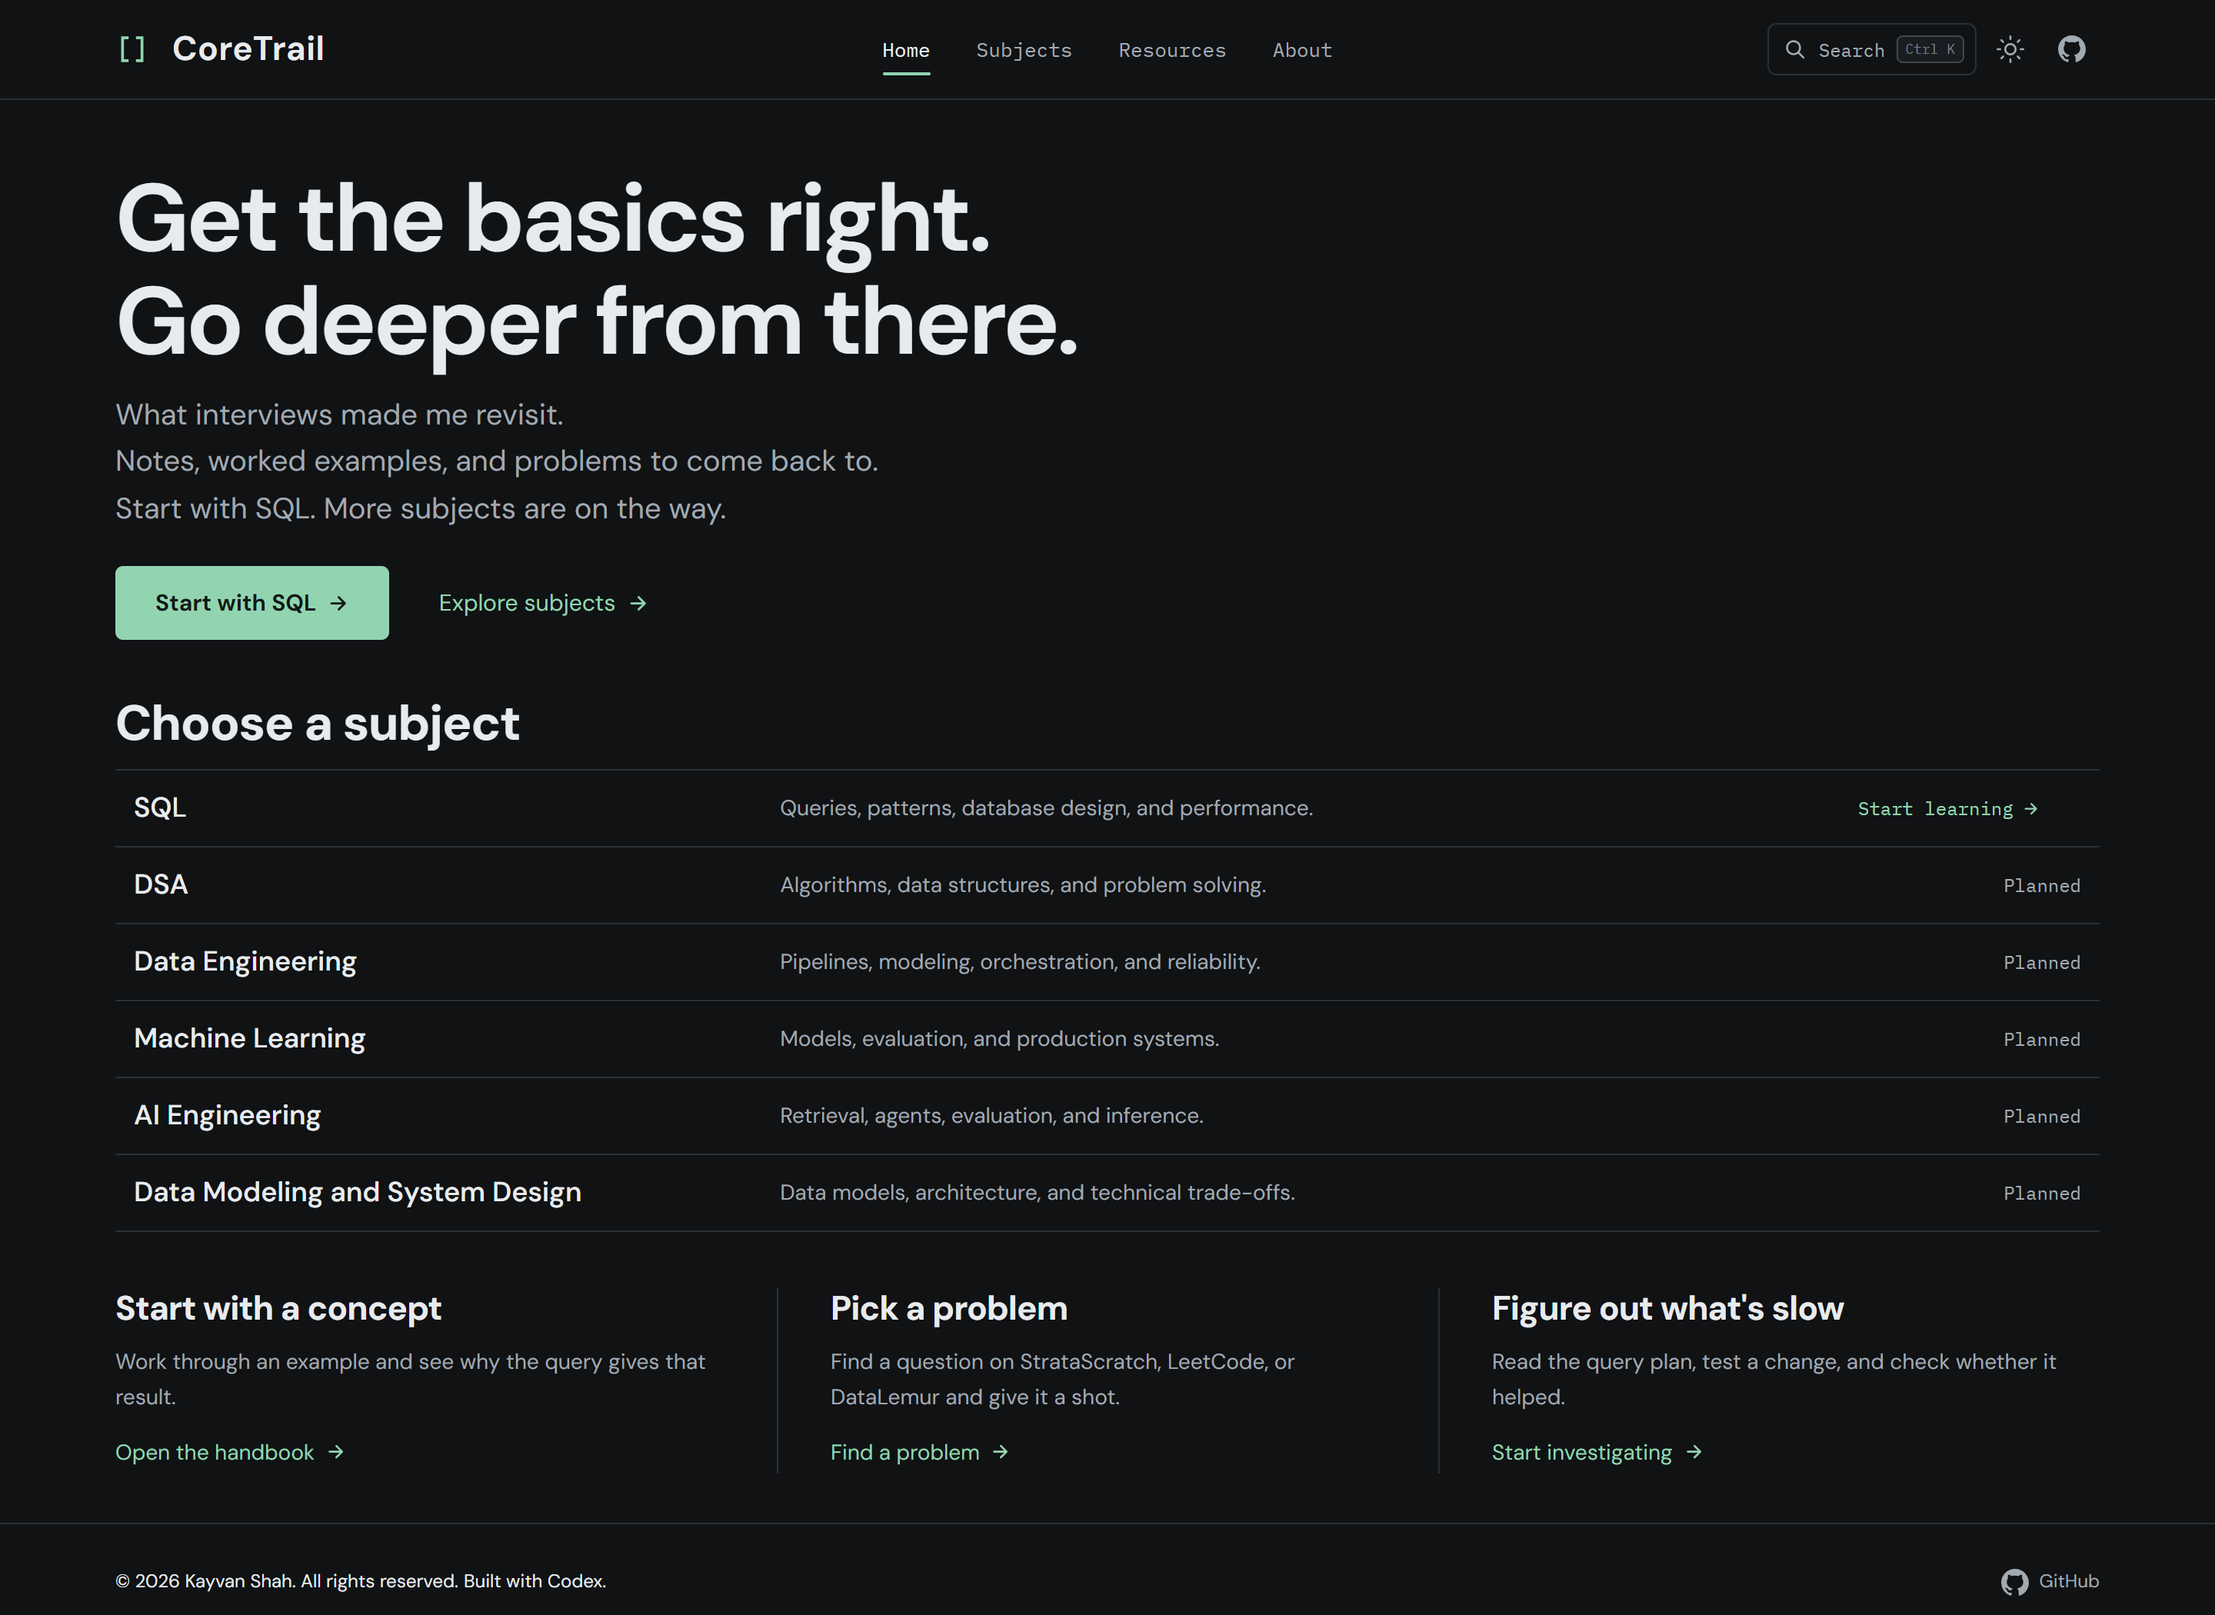
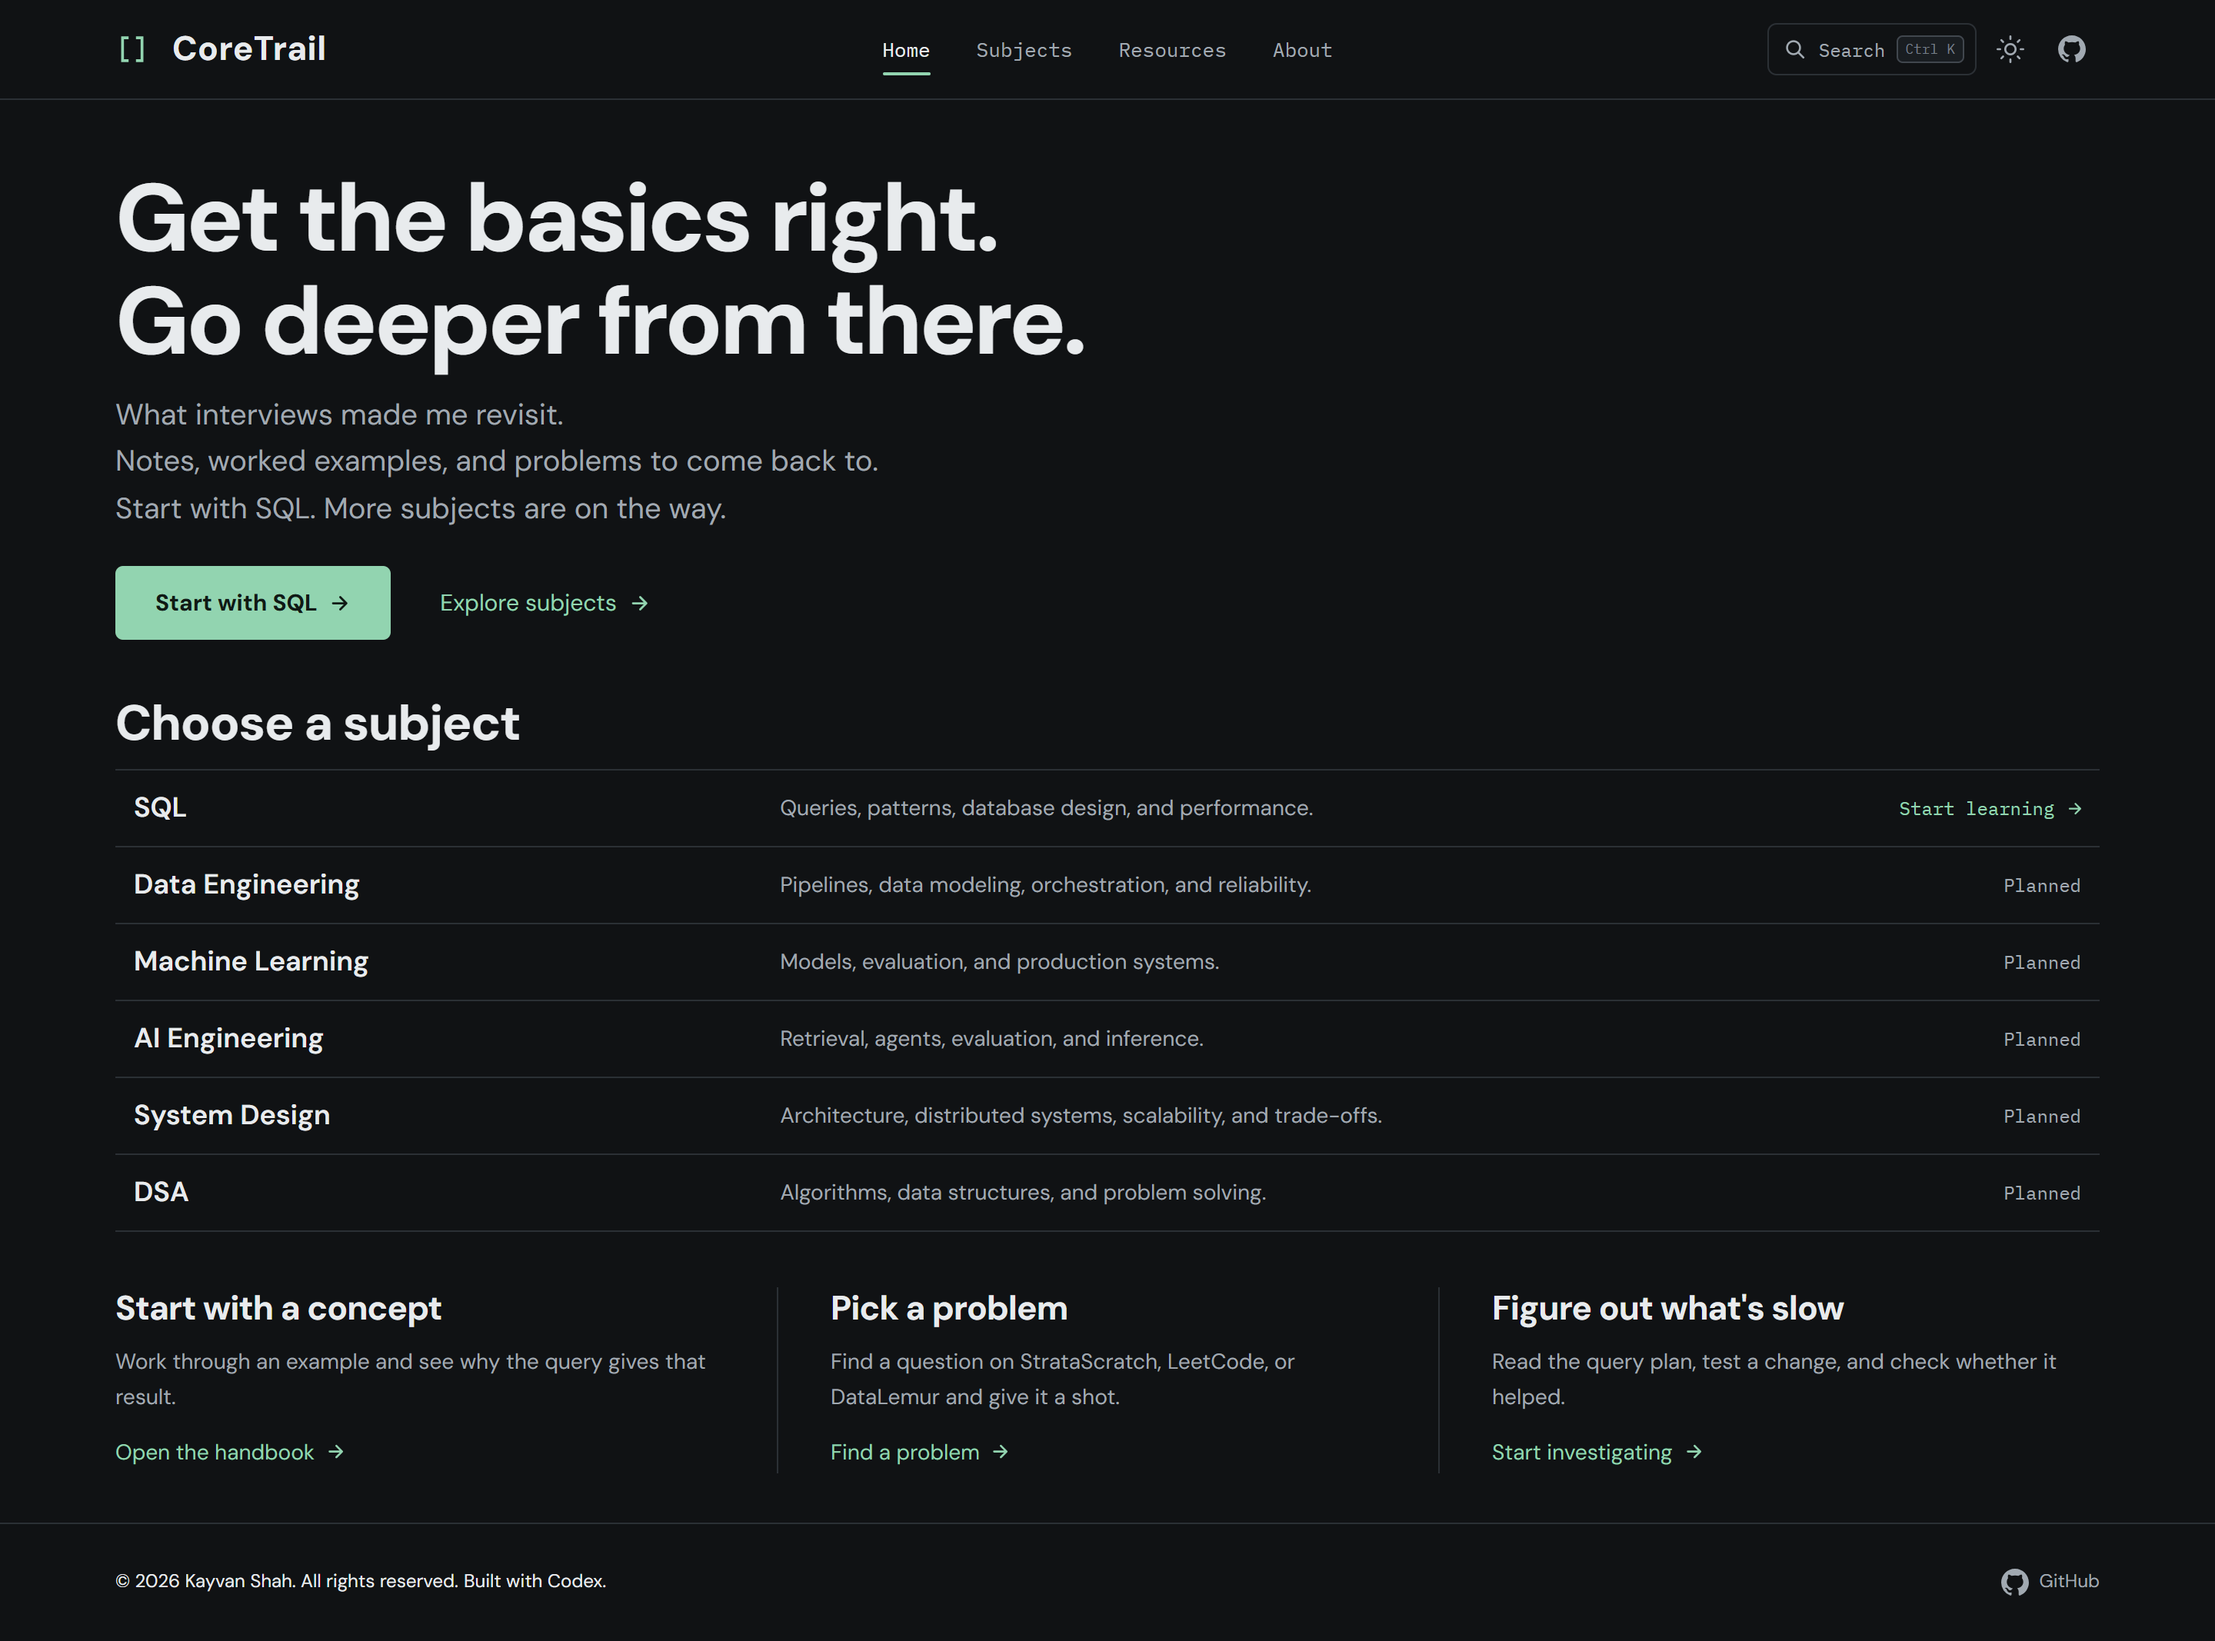
fix(home): align action arrow and refresh README image

diff --git a/app/_sass/_home.scss b/app/_sass/_home.scss
@@ -151,6 +151,9 @@ main.home-main {
 .subject-row small.text-icon {
   justify-self: end;
 }
+.subject-row small.text-icon .arrow-icon {
+  transform: translateX(0.14em);
+}
 .subject-row:first-of-type small {
   color: var(--accent);
 }

diff --git a/README.md b/README.md
@@ -11,13 +11,15 @@ A Jekyll handbook for technical interview revision across data, AI, machine lear
 
 ## Screenshots
 
-### Desktop: Home page (dark mode)
+### Desktop: Home page (dark mode, 1440 px viewport)
 
 [![CoreTrail desktop home page with Home, Subjects, Resources, and About navigation above the subject directory](app/assets/images/screenshots/desktop-home.png)](app/assets/images/screenshots/desktop-home.png)
 
 ### Mobile: SQL lesson (light mode)
 
 <a href="app/assets/images/screenshots/mobile-lesson.png"><img src="app/assets/images/screenshots/mobile-lesson.png" alt="CoreTrail mobile Window frames lesson with the current header, page outline, and interactive frame explorer" width="390" /></a>
+
+After visual changes, serve the site locally and recapture affected screenshots from `http://localhost:4000/coretrail/`. The desktop home image uses dark mode and a 2× device scale.
 
 ## Why I built it
 
